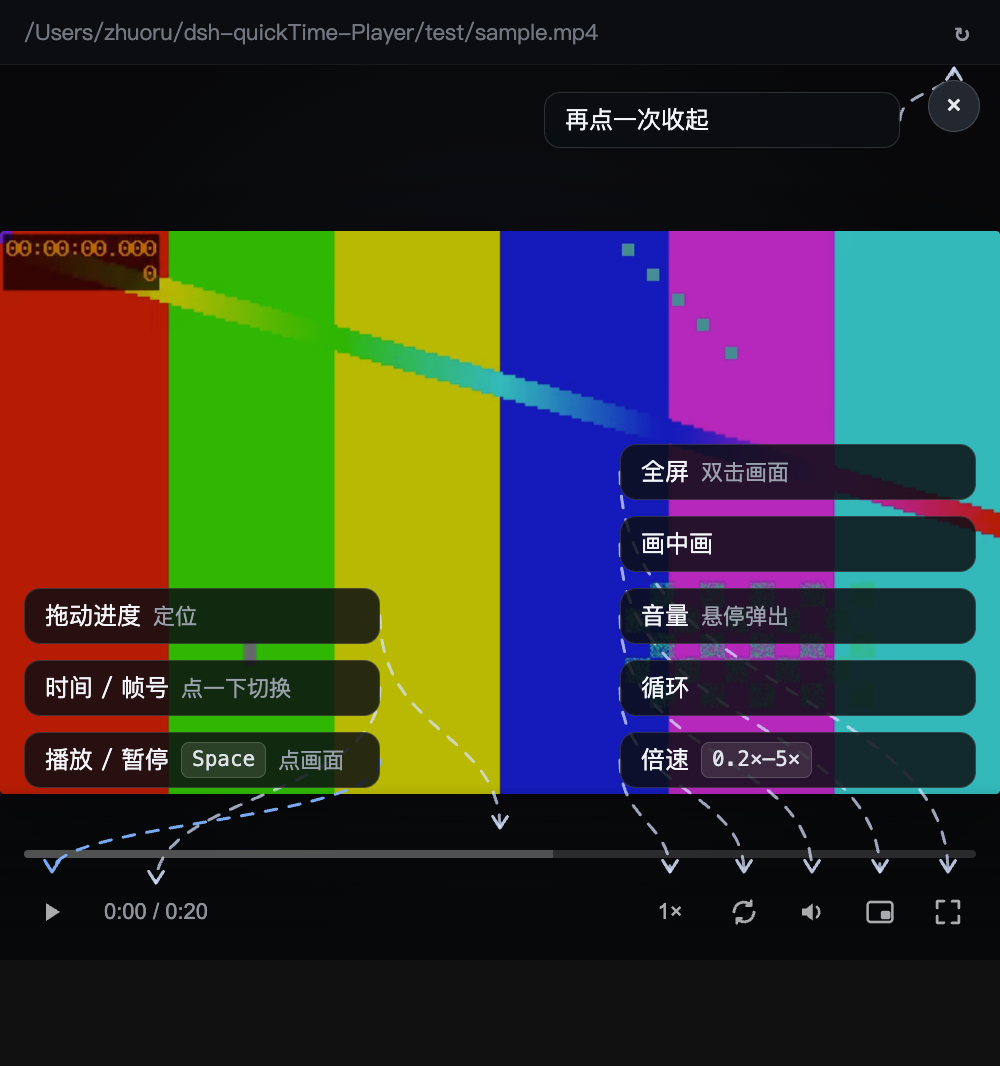
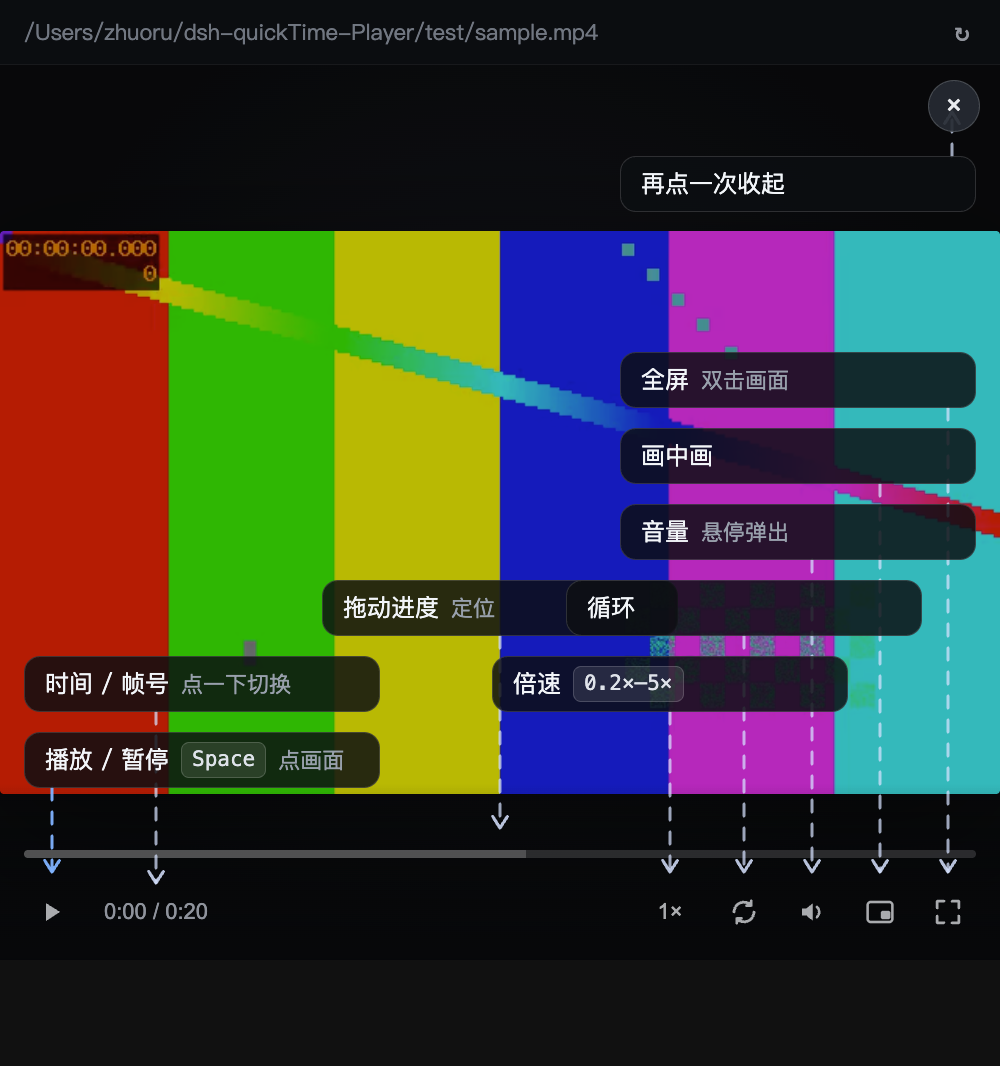
Drop the annotations straight down
Cards now centre on the control they describe and the arrows are plain vertical
drops; the two clusters sit on alternate rows so no two cards touch.

diff --git a/client.js b/client.js
@@ -1132,7 +1132,7 @@ window.__ModuleLoader__.load({
           var rect = pane.getBoundingClientRect()
           var capWidth = Math.max(96, Math.min(178, Math.round(rect.width * 0.46)))
           var capHeight = 28
-          var gap = 8
+          var gap = 10
           var barSpace = 86
           var items = []
           HELP_CALLOUTS.forEach(function (spec) {
@@ -1148,35 +1148,35 @@ window.__ModuleLoader__.load({
           var leftItems = items.filter(function (item) { return item.spec.side === 'left' })
           var rightItems = items.filter(function (item) { return item.spec.side === 'right' })
           var topItems = items.filter(function (item) { return item.spec.side === 'top' })
-          var stack = function (list, left) {
+          var clamp = function (value, min, max) { return Math.min(Math.max(value, min), max) }
+          // Cards sit centred over the control they describe, stacked upwards so
+          // they never collide; each arrow is a straight vertical drop.
+          var stack = function (list, rowOffset) {
             list.forEach(function (item, index) {
+              var left = clamp(item.anchorX - capWidth / 2, 12, Math.max(12, rect.width - 12 - capWidth))
               item.capsule = {
                 left: left,
-                top: rect.height - barSpace - capHeight - index * (capHeight + gap),
+                top: rect.height - barSpace - capHeight - (index + rowOffset) * (capHeight + gap),
                 width: capWidth,
                 height: capHeight,
               }
+              var lineX = clamp(item.anchorX, left + 12, left + capWidth - 12)
+              item.path = 'M ' + lineX + ' ' + (item.capsule.top + capHeight) +
+                ' L ' + lineX + ' ' + (item.anchorY - 6)
             })
           }
-          stack(leftItems, 12)
-          stack(rightItems, Math.max(12, rect.width - 12 - capWidth))
+          // Interleave the two clusters on alternate rows so cards never touch.
+          stack(leftItems, 0)
+          stack(rightItems, 1)
           topItems.forEach(function (item) {
             item.capsule = {
-              left: Math.max(12, rect.width - 12 - capWidth - 38),
-              top: 46,
+              left: Math.max(12, rect.width - 12 - capWidth),
+              top: 78,
               width: capWidth,
               height: capHeight,
             }
-          })
-          items.forEach(function (item) {
-            var capsule = item.capsule
-            var fromX = item.spec.side === 'right' ? capsule.left : capsule.left + capsule.width
-            var fromY = capsule.top + capsule.height / 2
-            var toX = item.anchorX
-            var toY = item.anchorY - 6
-            var midY = fromY + (toY - fromY) * 0.55
-            item.path = 'M ' + fromX + ' ' + fromY +
-              ' C ' + fromX + ' ' + midY + ', ' + toX + ' ' + midY + ', ' + toX + ' ' + toY
+            var lineX = clamp(item.anchorX, item.capsule.left + 12, item.capsule.left + capWidth - 12)
+            item.path = 'M ' + lineX + ' ' + item.capsule.top + ' L ' + lineX + ' ' + (item.anchorY + 16)
           })
           setAnnotations({ width: rect.width, height: rect.height, items: items })
         }
